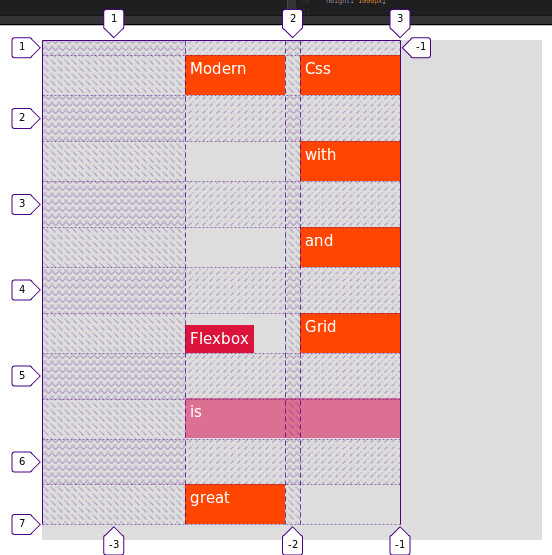
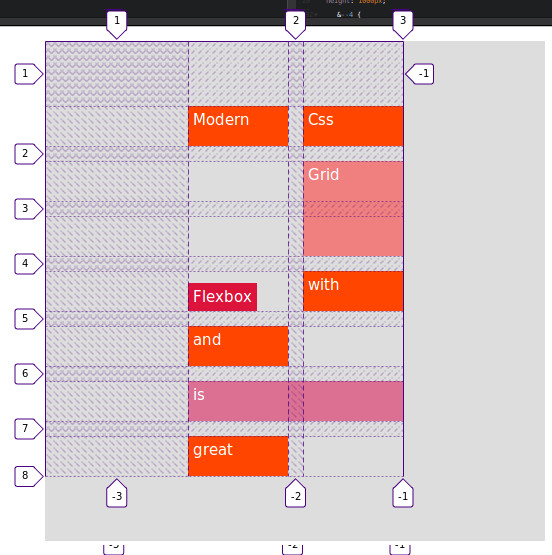
A small modification to item--6 classed div.

diff --git a/scss/style.scss b/scss/style.scss
@@ -34,8 +34,13 @@
     &--4 {
       background-color: crimson;
       grid-row: 2 / span 3;
-      align-self: end;
-      justify-self: start;
+      //align-self: end;
+      //justify-self: start;
+    }
+    
+    &--6 {
+      background-color: lightcoral;
+      grid-row: 2 / span 2;
     }
     
     &--7 {
